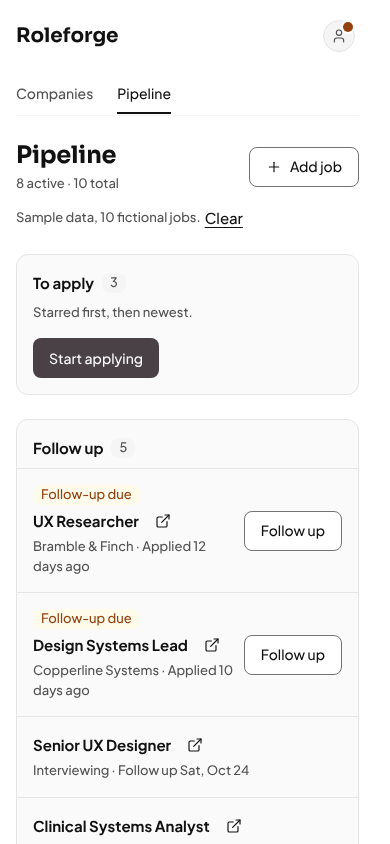
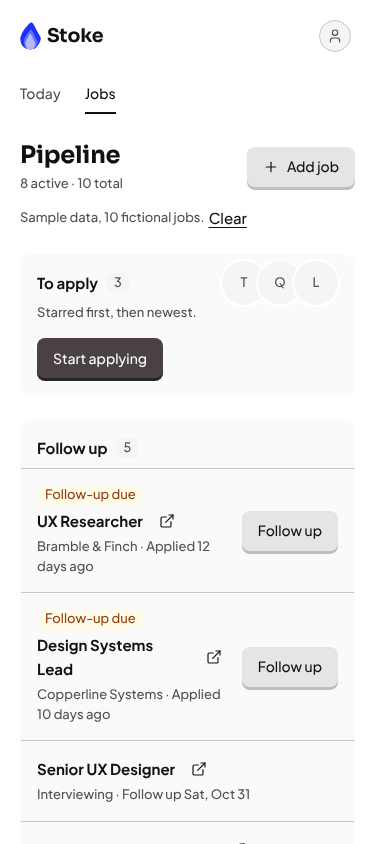
Rename to Stoke (Adrian 2026-10-29)
brand.ts is the one place: header, title/meta, manifest, icons, og-image, download
filenames. Stored ids (backup app id, calendar UIDs) and the roleforge-app domain stay.

Claude-Session: https://claude.ai/code/session_01YAE7bWN3GD6KwZUTy3U3j9

diff --git a/src/brand.test.ts b/src/brand.test.ts
@@ -19,10 +19,10 @@ const sourceFiles = (dir: string): string[] =>
   });
 
 describe('brand (#55)', () => {
-  it('is RoleForge, with a capital F (Adrian 2026-10-22)', () => {
-    expect(BRAND.name).toBe('RoleForge');
-    expect(BRAND.wordmark).toEqual(['Role', 'Forge']);
-    expect(BRAND.slug).toBe('roleforge');
+  it('is Stoke (Adrian 2026-10-29; was RoleForge)', () => {
+    expect(BRAND.name).toBe('Stoke');
+    expect(BRAND.wordmark).toEqual(['Stoke']);
+    expect(BRAND.slug).toBe('stoke');
   });
 
   it('is internally consistent', () => {
@@ -41,7 +41,7 @@ describe('brand (#55)', () => {
 
   it('no source file hard-codes the old or current display name', () => {
     const offenders = sourceFiles(SRC).filter((f) =>
-      new RegExp(`Apply Board|RoleForge|${BRAND.name}`).test(readFileSync(f, 'utf8')),
+      new RegExp(`Apply Board|RoleForge|\\b${BRAND.name}\\b`).test(readFileSync(f, 'utf8')),
     );
     expect(offenders).toEqual([]);
   });

diff --git a/src/brand.ts b/src/brand.ts
@@ -8,11 +8,11 @@
 // events update instead of duplicating.
 export const BRAND = {
   /** Display name. */
-  name: 'RoleForge',
-  /** Header wordmark: the second part takes the accent colour. Joined, it must equal `name`. */
-  wordmark: ['Role', 'Forge'] as const,
+  name: 'Stoke',
+  /** Header wordmark parts. Joined, it must equal `name`. */
+  wordmark: ['Stoke'] as const,
   /** Lowercase, URL/file-safe: download filenames. */
-  slug: 'roleforge',
+  slug: 'stoke',
   /** One line for <meta name="description">. */
   description:
     'A job-application tracker and discovery board: screen postings, track your pipeline, and generate targeted searches.',

diff --git a/CLAUDE.md b/CLAUDE.md
@@ -1,10 +1,10 @@
-# CLAUDE.md — RoleForge (formerly Apply Board)
+# CLAUDE.md — Stoke (formerly RoleForge, Apply Board)
 
 Project memory for future Claude Code sessions in this repo.
 
 ## What this is
 
-**RoleForge** (working name, formerly Apply Board) — a job-application tracker + discovery board, live at
+**Stoke** (renamed 2026-10-29; formerly RoleForge, Apply Board) — a job-application tracker + discovery board, live at
 **https://roleforge-app.vercel.app** (repo `hirobius/job-hunt`; the old
 `job-hunt-jade.vercel.app` still serves and is an accepted sign-in origin until it redirects). Rebuilt from a
 single static `index.html` into a React app (the old file is in git history at
